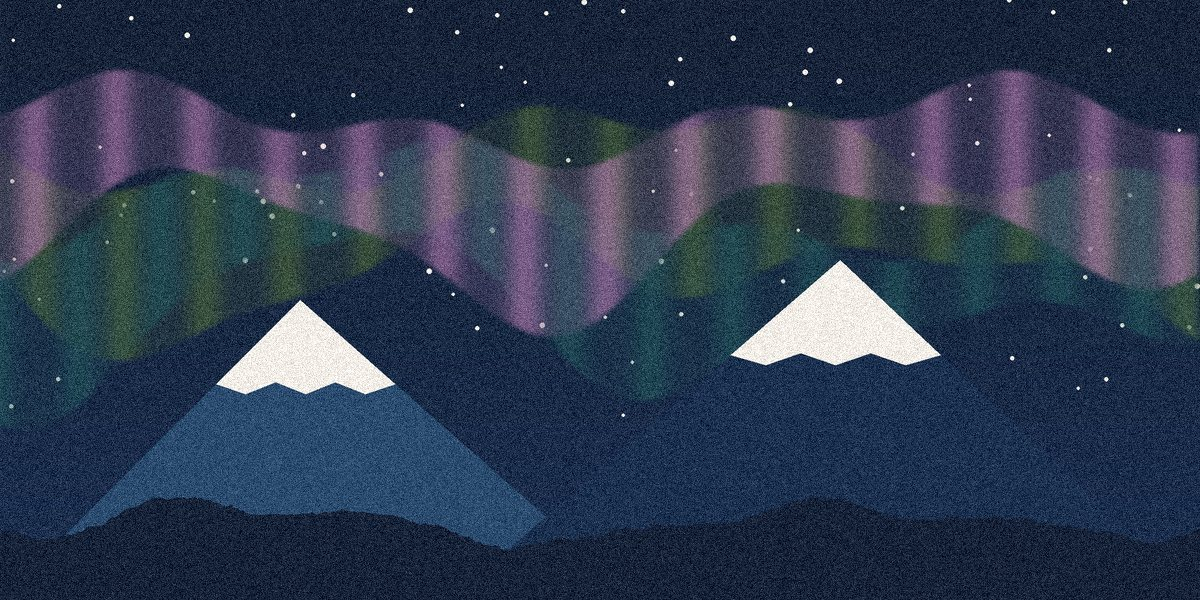
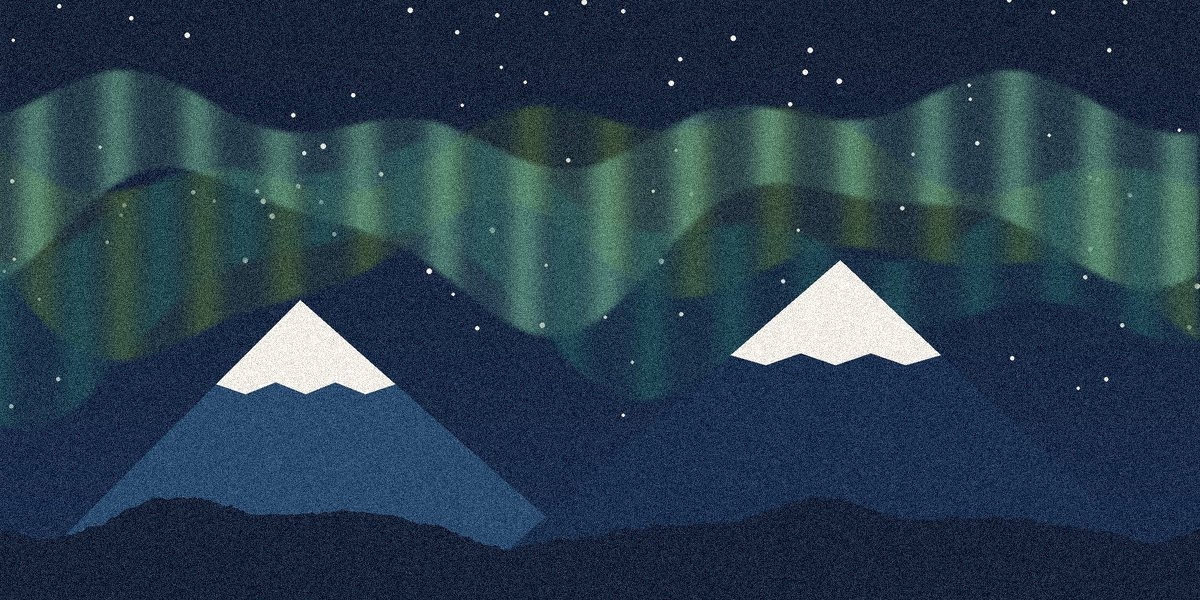
Undo the orchid touch on Tuesday hero images
Claude-Session: https://claude.ai/code/session_01CPFfiZz4rjPwAdTY8Ptavd

diff --git a/art/tue/make.py b/art/tue/make.py
@@ -7,7 +7,6 @@ rng = np.random.default_rng(42)
 
 # 01 Moonlit water: full moon, long broken reflection on still indigo water
 im = canvas(c['navy'], c['prussian'], 1.3)
-twilight(im, 380, c['orchid'], 200, 0.5)
 stars(im, 60, 330, c['paper'], seed=11, avoid=(760, 150, 70))
 glow(im, 760, 150, 140, c['skyb'], 0.35)
 disc(im, 760, 150, 70, c['clay'])
@@ -22,7 +21,6 @@ finish(im, OUT + 'tue_01.jpg', seed=21)
 
 # 02 Blue hour harbour: moored boats, ochre lanterns, reflections
 im = canvas(c['prussian'], c['skyb'], 1.1)
-twilight(im, 330, c['orchid'], 200, 0.55)
 disc(im, 980, 110, 34, c['paper'])
 ridge(im, 300, 26, 160, c['indigo'], seed=4)
 d = ImageDraw.Draw(im); d.rectangle([0, 395*S, W, H], fill=c['indigo'])
@@ -44,7 +42,6 @@ finish(im, OUT + 'tue_02.jpg', seed=22)
 
 # 03 Firefly forest: rows of pines, ochre fireflies, crescent moon
 im = canvas(c['navy'], c['teal'], 1.4)
-twilight(im, 360, c['orchid'], 240, 0.7)
 crescent(im, 230, 120, 48, c['clay'], tuple(int(v) for v in np.array(c['navy'])*0.85 + np.array(c['teal'])*0.15))
 stars(im, 40, 260, c['paper'], seed=13, avoid=(230, 120, 60))
 for row, (base, h, col, step) in enumerate([(380, 170, c['teal'], 70), (460, 210, c['pine'], 90), (600, 260, (24, 44, 40), 120)]):
@@ -60,7 +57,6 @@ finish(im, OUT + 'tue_03.jpg', seed=23)
 
 # 04 City night shift: skyline with lit windows, crescent moon
 im = canvas(c['indigo'], c['plum'], 1.2)
-twilight(im, 470, c['orchid'], 260, 0.5)
 crescent(im, 960, 110, 44, c['clay'], tuple(int(v) for v in np.array(c['indigo'])*0.9 + np.array(c['plum'])*0.1))
 stars(im, 35, 250, c['paper'], seed=14, avoid=(960, 110, 60))
 d = ImageDraw.Draw(im)
@@ -97,7 +93,7 @@ d.rectangle([0, 450*S, W, H], fill=c['ink'])
 d.rectangle([0, 440*S, W, 456*S], fill=c['deep'])
 glow(im, 260, 470, 220, c['ochre'], 0.35)
 d = ImageDraw.Draw(im)
-d.polygon([(180*S, 250*S), (340*S, 250*S), (300*S, 180*S), (220*S, 180*S)], fill=c['orchid'])
+d.polygon([(180*S, 250*S), (340*S, 250*S), (300*S, 180*S), (220*S, 180*S)], fill=c['wine'])
 d.line([(260*S, 250*S), (260*S, 440*S)], fill=c['clay'], width=6*S)
 d.ellipse([200*S, 432*S, 320*S, 452*S], fill=c['clay'])
 d.rectangle([520*S, 400*S, 760*S, 440*S], fill=c['clay']); d.rectangle([540*S, 380*S, 740*S, 400*S], fill=c['mauve'])
@@ -109,7 +105,6 @@ finish(im, OUT + 'tue_05.jpg', seed=25)
 
 # 06 Lighthouse: beam across a dark teal sea, rocky island
 im = canvas(c['navy'], c['indigo'], 1)
-twilight(im, 420, c['orchid'], 200, 0.5)
 stars(im, 50, 380, c['paper'], seed=16)
 beam = Image.new('L', (W, H), 0)
 ImageDraw.Draw(beam).polygon([(300*S, 205*S), (1250*S, 60*S), (1250*S, 330*S)], fill=110)
@@ -129,7 +124,7 @@ finish(im, OUT + 'tue_06.jpg', seed=26)
 # 07 Aurora: green and teal curtains over snowy peaks
 im = canvas(c['navy'], c['indigo'], 1)
 stars(im, 90, 420, c['paper'], seed=17)
-for k, (col, y0, amp) in enumerate([(c['moss'], 150, 40), (c['teal'], 200, 50), (c['orchid'], 120, 30)]):
+for k, (col, y0, amp) in enumerate([(c['moss'], 150, 40), (c['teal'], 200, 50), ((110, 170, 140), 120, 30)]):
     m = Image.new('L', (W, H), 0); md = ImageDraw.Draw(m)
     for x in range(0, 1200, 4):
         top = y0 + amp*math.sin(x/140 + k*2) + 20*math.sin(x/47 + k)
@@ -152,7 +147,7 @@ def cloud(cx, cy, s, col, line):
     for (ox, oy, r) in [(-20, -18, 30), (-20, -18, 16), (30, -6, 24)]:
         d.arc([(cx + ox*s - r*s)*S, (cy + oy*s - r*s)*S, (cx + ox*s + r*s)*S, (cy + oy*s + r*s)*S], 180, 360, fill=line, width=int(3*S*s))
     d.line([((cx - 94*s)*S, (cy + 40*s)*S), ((cx + 98*s)*S, (cy + 40*s)*S)], fill=line, width=int(3*S*s))
-cloud(300, 160, 1.6, c['orchid'], c['paper'])
+cloud(300, 160, 1.6, c['plum'], c['mauve'])
 cloud(1040, 360, 1.5, c['prussian'], c['skyb'])
 cloud(560, 430, 1.9, c['teal'], c['foamb'])
 cloud(160, 500, 1.4, c['wine'], c['mauve'])
